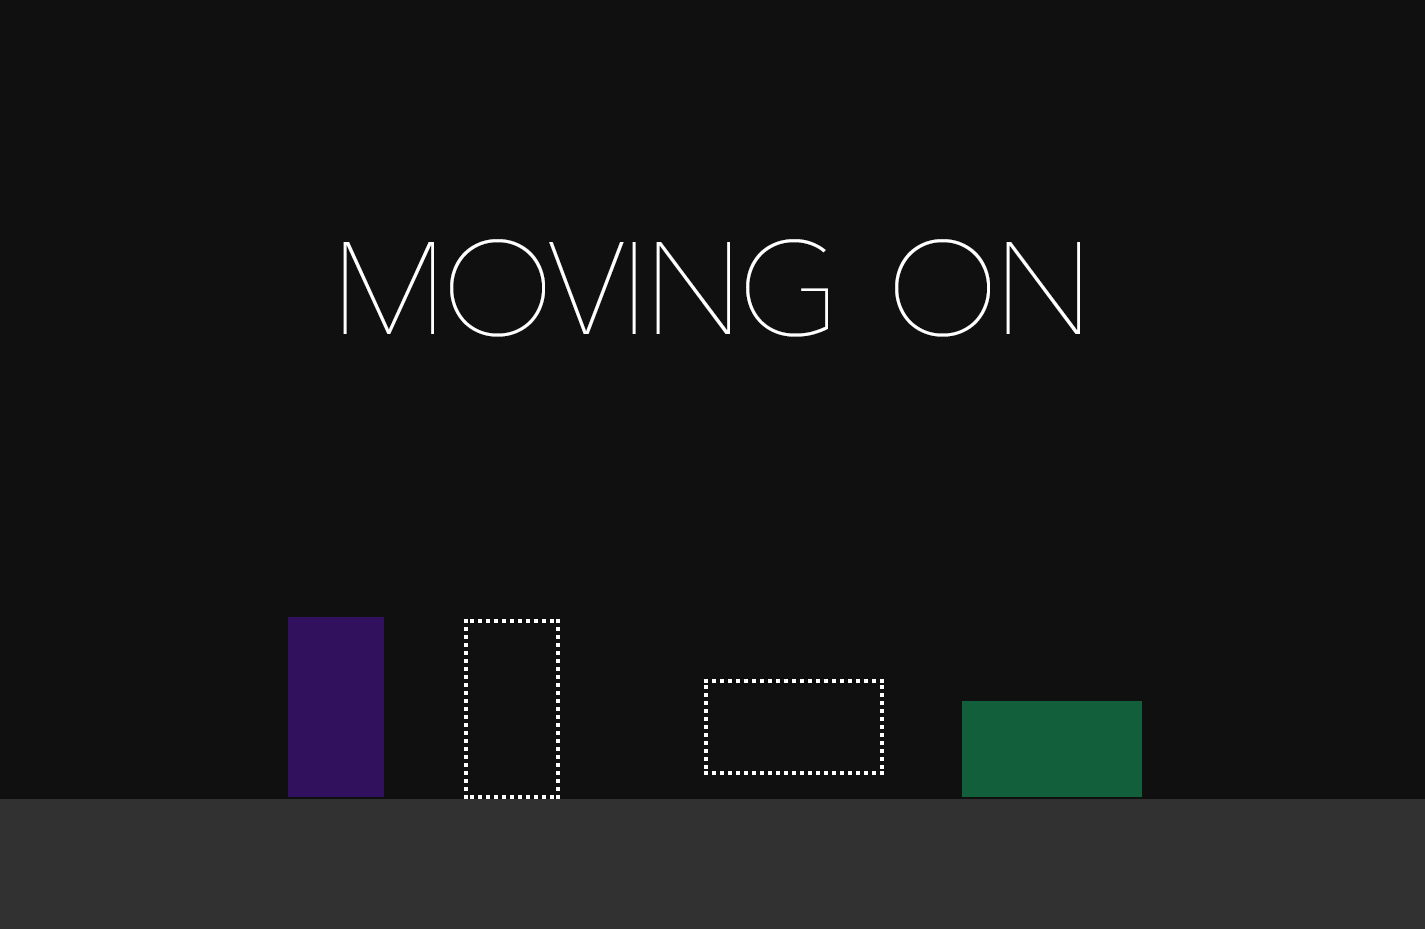
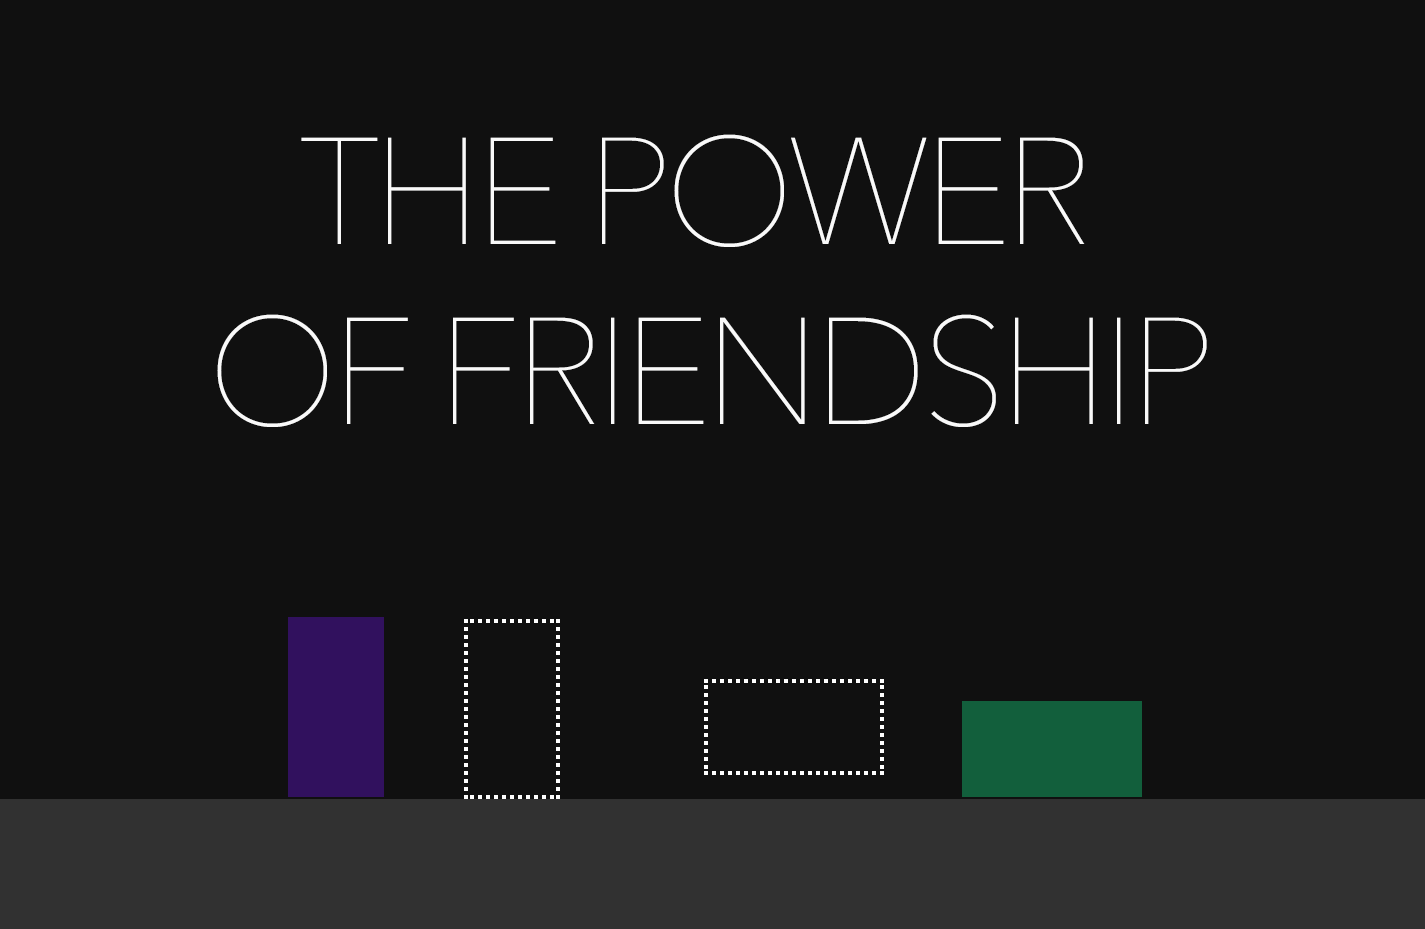
Change moving on to power of friendship

diff --git a/index.html b/index.html
@@ -465,8 +465,7 @@
 					</span>
 					<!-- <h3>Magna feugiat lorem</h3> -->
 					<p>
-						Moving On is a minimalist puzzle platformer that tells the bittersweet story of coping, companionship, and empowerment. Made
-						entirely in native JavaScript, HTML, and CSS.
+						The Power of Friendship is a minimalist puzzle platformer where a blocky, motley crew must work together to succeed. Made in native JavaScript, HTML, and CSS.
 					</p>
 					<ul class="actions">
 						<li>

diff --git a/assets/sass/main.scss b/assets/sass/main.scss
@@ -139,7 +139,7 @@ $viewer-distance: 1200px;
     &.glowing {
     }
   }
-
+  
   .email {
     &.glowing {
       animation: fadeemail 3s forwards;
